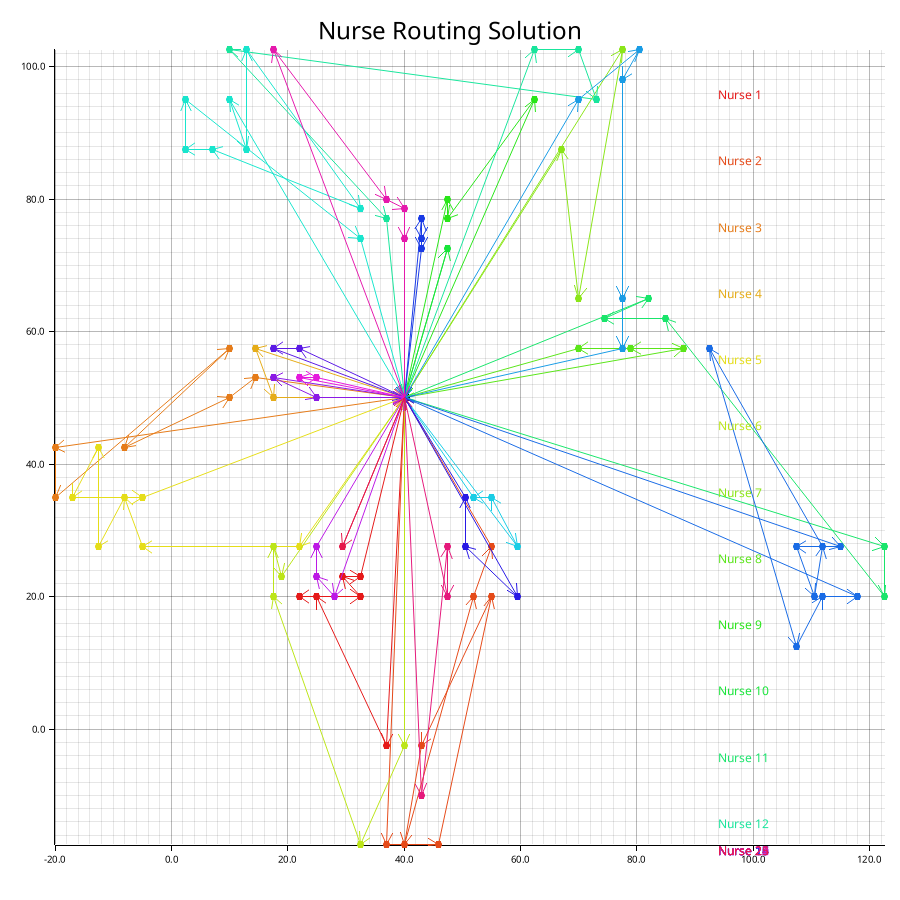
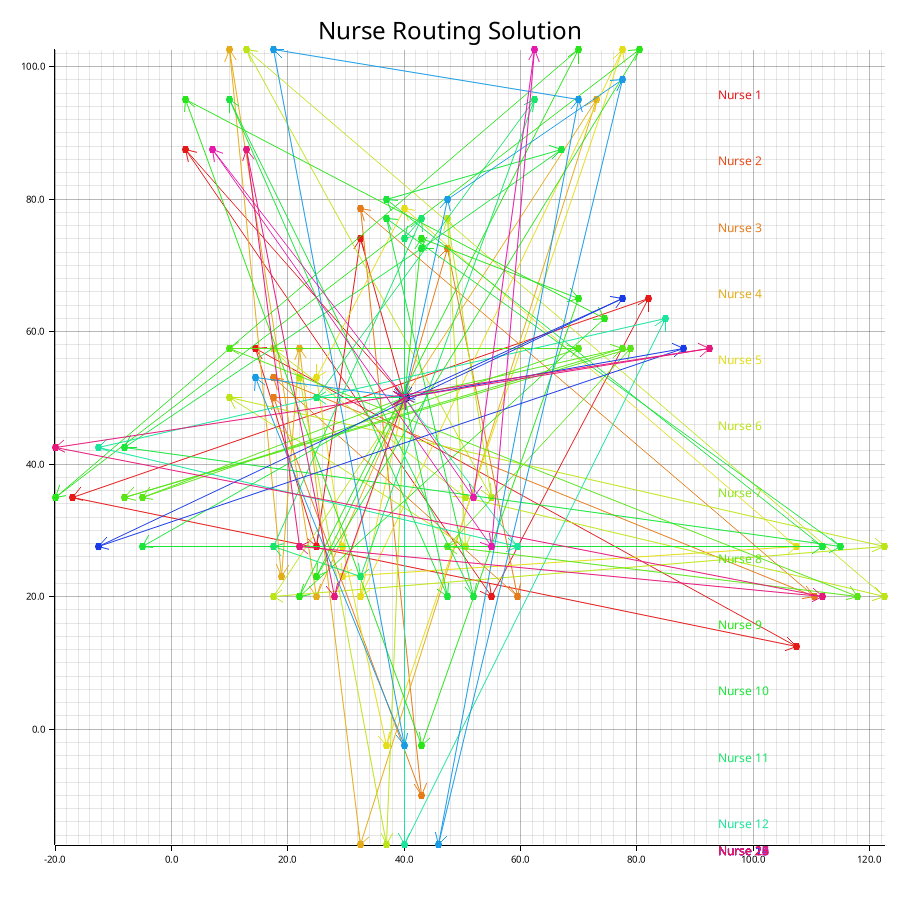
Implement evolutionary algorithm and selection methods; update main logic to utilize new features

Changed region(s): [[0.0622, 0.0311, 0.9956, 0.9644], [0.7467, 0.4667, 0.7778, 0.4978], [0.1867, 0.0933, 0.2178, 0.1244]]

diff --git a/src/main.rs b/src/main.rs
@@ -7,15 +7,18 @@ mod utils;
 
 fn main() {
     let instance = utils::parse_data::parse_data("src/data/train/train_0.json");
-    let population = generate_population_heuristic_with_workload(10, &instance);
-    let parent_1: &Vec<Vec<usize>> = &population[0];
+    
+    let best_solution = evolutionary_algorithm(
+        &instance,
+        100,
+        10000,
+        5,
+        0.1,
+        0.1,
+    );
 
-    // Calculate the fitness of the first solution
-    let fitness_value = fitness(parent_1, &instance);
-    println!("Fitness value: {:?}", fitness_value);
-
-    utils::create_file::save_solution_to_file(parent_1, "parent_1.json").expect("Failed to save parent_1 to file");
-    plot_map(parent_1, &instance.patients, &instance.depot);
+    plot_map(&best_solution, &instance.patients, &instance.depot);
+    let _ = utils::create_file::save_solution_to_file(&best_solution, "solution.json");
 }
 
 // Not used, better to use the heuristic approach
@@ -345,6 +348,19 @@ fn fitness(solution: &Vec<Vec<usize>>, instance: &Instance) -> f64 {
     total_travel_time + total_penalty
 }
 
+
+/// Selects one individual from the population using tournament selection.
+///
+/// # Arguments
+///
+/// * `population` - A reference to the population (each individual is a Vec<Vec<usize>>).
+/// * `fitness` - A reference to a vector of fitness values corresponding to each individual.
+///               Lower fitness is considered better.
+/// * `tournament_size` - The number of individuals in each tournament.
+///
+/// # Returns
+///
+/// A clone of the selected individual.
 pub fn tournament_selection(
     population: &Vec<Vec<Vec<usize>>>,
     fitness: &Vec<f64>,
@@ -359,7 +375,7 @@ pub fn tournament_selection(
         let idx = rng.random_range(0..pop_size);
         best_index = match best_index {
             Some(current_best) => {
-                // Since lower fitness is better, choose the individual with the smallest fitness.
+                // Lower fitness is better.
                 if fitness[idx] < fitness[current_best] {
                     Some(idx)
                 } else {
@@ -367,32 +383,32 @@ pub fn tournament_selection(
                 }
             }
             None => Some(idx),
-        }
+        };
     }
 
     // Return the best individual from the tournament.
     population[best_index.unwrap()].clone()
 }
 
+
 pub fn exponential_rank_wheel_selection(
     population: &Vec<Vec<Vec<usize>>>,
     fitness: &Vec<f64>,
     lambda: f64,
 ) -> Vec<Vec<usize>> {
-    // Create a vector of indices for the population.
+    // Create a vector of indices and sort them by fitness (ascending).
     let mut indices: Vec<usize> = (0..population.len()).collect();
-    // Sort indices by fitness in ascending order (best first).
     indices.sort_by(|&a, &b| fitness[a].partial_cmp(&fitness[b]).unwrap());
 
     // Compute exponential weights based on rank (best individual has rank 0).
-    // Weight formula: weight = exp(-lambda * rank)
+    // weight = exp(-lambda * rank)
     let weights: Vec<f64> = indices
         .iter()
         .enumerate()
         .map(|(rank, _)| (-lambda * (rank as f64)).exp())
         .collect();
 
-    // Calculate the total weight.
+    // Calculate total weight.
     let total_weight: f64 = weights.iter().sum();
 
     // Build cumulative weights for the roulette wheel.
@@ -403,20 +419,21 @@ pub fn exponential_rank_wheel_selection(
         cumulative_weights.push(cumulative);
     }
 
-    // Generate a random number in the range [0, total_weight).
+    // Generate a random number in [0, total_weight).
     let mut rng = rand::rng();
     let r: f64 = rng.random_range(0.0..total_weight);
 
-    // Find the first index where the cumulative weight exceeds the random number.
+    // Find the first rank where the cumulative weight exceeds r.
     let selected_rank = cumulative_weights
         .iter()
         .position(|&cw| cw >= r)
         .unwrap();
     let selected_index = indices[selected_rank];
 
-    // Return the selected individual (cloned).
+    // Return the selected individual.
     population[selected_index].clone()
 }
+
 
 
 fn route_preserving_crossover(
@@ -527,6 +544,81 @@ pub fn mutate_relocate_patient(
             individual[target_nurse].insert(insertion_index, patient);
         }
     }
+}
+
+pub fn evolutionary_algorithm(
+    instance: &Instance,
+    population_size: usize,
+    generations: usize,
+    tournament_size: usize,
+    mutation_probability: f64,
+    lambda: f64,
+) -> Vec<Vec<usize>> {
+    // 1. Generate the initial population.
+    let mut population = generate_population_heuristic_with_workload(population_size, instance);
+    // Evaluate fitness for the initial population.
+    let mut fitness_values: Vec<f64> = population
+        .iter()
+        .map(|individual| fitness(individual, instance))
+        .collect();
+
+    // Main loop: run for a fixed number of generations.
+    for gen in 0..generations {
+        let mut new_population = Vec::with_capacity(population_size);
+
+        // Elitism: carry over the best individual to the next generation.
+        let best_index = fitness_values
+            .iter()
+            .enumerate()
+            .min_by(|(_, &fit_a), (_, &fit_b)| fit_a.partial_cmp(&fit_b).unwrap())
+            .unwrap()
+            .0;
+        new_population.push(population[best_index].clone());
+
+        // Generate new individuals until we fill the population.
+        while new_population.len() < population_size {
+            // Selection: choose two parents using tournament selection.
+            let parent1 = tournament_selection(&population, &fitness_values, tournament_size);
+            let parent2 = tournament_selection(&population, &fitness_values, tournament_size);
+
+            // Crossover: perform a route-preserving crossover.
+            let (mut child1, mut child2) = route_preserving_crossover(&parent1, &parent2, instance);
+
+            // Mutation: apply mutation operator (relocate a patient) to each child.
+            mutate_relocate_patient(&mut child1, mutation_probability);
+            mutate_relocate_patient(&mut child2, mutation_probability);
+
+            new_population.push(child1);
+            if new_population.len() < population_size {
+                new_population.push(child2);
+            }
+        }
+
+        // Replace the old population with the new one and re-calculate fitness.
+        population = new_population;
+        fitness_values = population
+            .iter()
+            .map(|individual| fitness(individual, instance))
+            .collect();
+
+        // Print best fitness for this generation.
+        let best_fit = fitness_values
+            .iter()
+            .cloned()
+            .fold(f64::INFINITY, f64::min);
+        if (gen + 1) % 100 == 0 {
+            println!("Generation {}: Best fitness = {}", gen, best_fit);
+        }
+    }
+
+    // Return the best solution from the final population.
+    let best_index = fitness_values
+        .iter()
+        .enumerate()
+        .min_by(|(_, &fit_a), (_, &fit_b)| fit_a.partial_cmp(&fit_b).unwrap())
+        .unwrap()
+        .0;
+    population[best_index].clone()
 }
 
 use plotters::{coord::types::RangedCoordf64, prelude::*};
